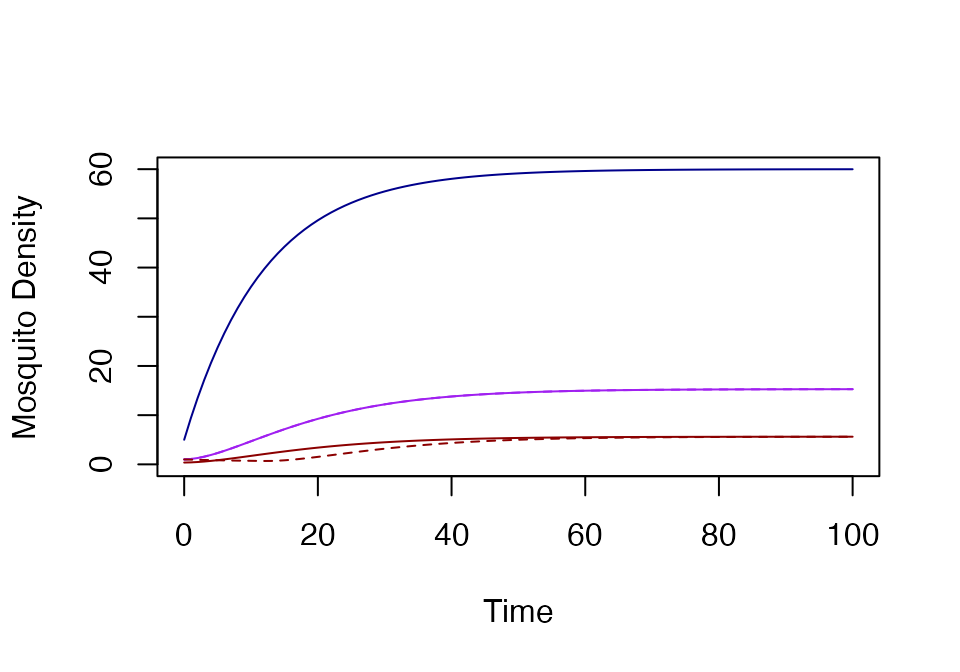
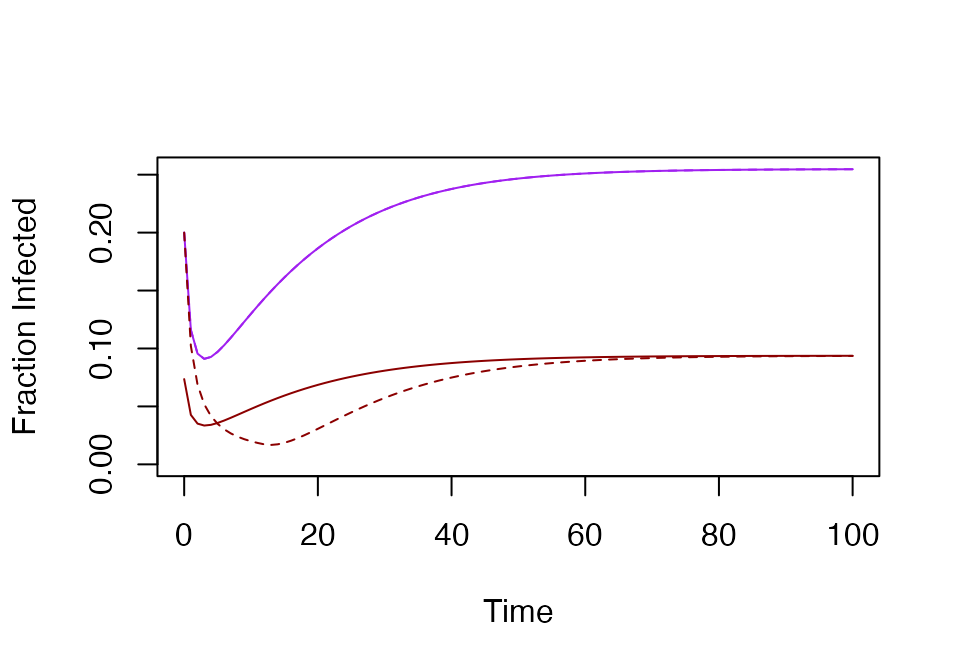
updated Adult Mosquitoes

diff --git a/docs/articles/AdultMosquitoes.html b/docs/articles/AdultMosquitoes.html
@@ -95,6 +95,9 @@
   </a>
   <ul class="dropdown-menu" role="menu">
 <li>
+      <a href="../articles/AdultMosquitoes.html">Adult Mosquitoes</a>
+    </li>
+    <li>
       <a href="../articles/adult_RM.html">Ross-Macdonald model</a>
     </li>
     <li>
@@ -289,9 +292,8 @@ The equation for <span class="math inline">\(M\)</span> and <span class="math in
 <code class="sourceCode R"><span><span class="va">si</span> <span class="op">=</span> <span class="fu"><a href="../reference/xds_setup.html">xds_setup</a></span><span class="op">(</span>MYZname <span class="op">=</span> <span class="st">"si"</span>, Xname <span class="op">=</span> <span class="st">"trivial"</span>, Xopts <span class="op">=</span> <span class="fu"><a href="https://rdrr.io/r/base/list.html" class="external-link">list</a></span><span class="op">(</span>kappa<span class="op">=</span><span class="fl">0.1</span><span class="op">)</span>, Lname <span class="op">=</span> <span class="st">"trivial"</span>, Lopts <span class="op">=</span> <span class="fu"><a href="https://rdrr.io/r/base/list.html" class="external-link">list</a></span><span class="op">(</span>Lambda<span class="op">=</span><span class="fl">5</span><span class="op">)</span>, HPop<span class="op">=</span><span class="fl">10</span><span class="op">)</span></span>
 <span><span class="va">si</span> <span class="op">=</span> <span class="fu"><a href="../reference/xde_solve.html">xde_solve</a></span><span class="op">(</span><span class="va">si</span>, Tmax<span class="op">=</span><span class="fl">100</span><span class="op">)</span></span></code></pre></div>
 <div class="sourceCode" id="cb5"><pre class="downlit sourceCode r">
-<code class="sourceCode R"><span><span class="fu"><a href="../reference/xds_plot_M.html">xds_plot_M</a></span><span class="op">(</span><span class="va">si</span><span class="op">)</span></span>
-<span><span class="fu"><a href="../reference/xds_plot_YZ.html">xds_plot_YZ</a></span><span class="op">(</span><span class="va">si</span>, add_axes<span class="op">=</span><span class="cn">FALSE</span><span class="op">)</span></span>
-<span><span class="fu"><a href="../reference/xds_plot_YZ.html">xds_plot_YZ</a></span><span class="op">(</span><span class="va">rm</span>, add_axes<span class="op">=</span><span class="cn">FALSE</span>, llty<span class="op">=</span><span class="fl">2</span><span class="op">)</span></span></code></pre></div>
+<code class="sourceCode R"><span><span class="fu"><a href="../reference/xds_plot_YZ_fracs.html">xds_plot_YZ_fracs</a></span><span class="op">(</span><span class="va">si</span><span class="op">)</span></span>
+<span><span class="fu"><a href="../reference/xds_plot_YZ_fracs.html">xds_plot_YZ_fracs</a></span><span class="op">(</span><span class="va">rm</span>, add_axes<span class="op">=</span><span class="cn">FALSE</span>, llty<span class="op">=</span><span class="fl">2</span><span class="op">)</span></span></code></pre></div>
 <p><img src="AdultMosquitoes_files/figure-html/unnamed-chunk-6-1.png" width="480"></p>
 </div>
 <div class="section level4">
@@ -299,18 +301,17 @@ The equation for <span class="math inline">\(M\)</span> and <span class="math in
 <code>sei</code><a class="anchor" aria-label="anchor" href="#sei"></a>
 </h4>
 <p>In the standard SEI compartmental model (or its equivalent under a
-change of variables):</p>
-<p><span class="math display">\[\frac{dY}{dt} = fq\kappa(M-Y) - g Y -
-\tau^{-1} Y\]</span></p>
-<p><span class="math display">\[\frac{dZ}{dt} =  \tau^{-1} Y - g
+change of variables), let <span class="math inline">\(\nu\)</span>:</p>
+<p><span class="math display">\[\frac{dY}{dt} = fq\kappa(M-Y) - g Y - Y/
+\tau\]</span></p>
+<p><span class="math display">\[\frac{dZ}{dt} =  Y / \tau - g
 Z\]</span></p>
 <div class="sourceCode" id="cb6"><pre class="downlit sourceCode r">
 <code class="sourceCode R"><span><span class="va">sei</span> <span class="op">=</span> <span class="fu"><a href="../reference/xds_setup.html">xds_setup</a></span><span class="op">(</span>MYZname <span class="op">=</span> <span class="st">"sei"</span>, Xname <span class="op">=</span> <span class="st">"trivial"</span>, Xopts <span class="op">=</span> <span class="fu"><a href="https://rdrr.io/r/base/list.html" class="external-link">list</a></span><span class="op">(</span>kappa<span class="op">=</span><span class="fl">0.1</span><span class="op">)</span>, Lname <span class="op">=</span> <span class="st">"trivial"</span>, Lopts <span class="op">=</span> <span class="fu"><a href="https://rdrr.io/r/base/list.html" class="external-link">list</a></span><span class="op">(</span>Lambda<span class="op">=</span><span class="fl">5</span><span class="op">)</span>, HPop<span class="op">=</span><span class="fl">10</span><span class="op">)</span></span>
 <span><span class="va">sei</span> <span class="op">=</span> <span class="fu"><a href="../reference/xde_solve.html">xde_solve</a></span><span class="op">(</span><span class="va">sei</span>, Tmax<span class="op">=</span><span class="fl">100</span><span class="op">)</span></span></code></pre></div>
 <div class="sourceCode" id="cb7"><pre class="downlit sourceCode r">
-<code class="sourceCode R"><span><span class="fu"><a href="../reference/xds_plot_M.html">xds_plot_M</a></span><span class="op">(</span><span class="va">sei</span><span class="op">)</span></span>
-<span><span class="fu"><a href="../reference/xds_plot_YZ.html">xds_plot_YZ</a></span><span class="op">(</span><span class="va">sei</span>, add_axes<span class="op">=</span><span class="cn">FALSE</span><span class="op">)</span></span>
-<span><span class="fu"><a href="../reference/xds_plot_YZ.html">xds_plot_YZ</a></span><span class="op">(</span><span class="va">rm</span>, add_axes<span class="op">=</span><span class="cn">FALSE</span>, llty<span class="op">=</span><span class="fl">2</span><span class="op">)</span></span></code></pre></div>
+<code class="sourceCode R"><span><span class="fu"><a href="../reference/xds_plot_YZ_fracs.html">xds_plot_YZ_fracs</a></span><span class="op">(</span><span class="va">rm</span>, llty<span class="op">=</span><span class="fl">2</span><span class="op">)</span></span>
+<span><span class="fu"><a href="../reference/xds_plot_YZ_fracs.html">xds_plot_YZ_fracs</a></span><span class="op">(</span><span class="va">sei</span>, add_axes<span class="op">=</span><span class="cn">FALSE</span><span class="op">)</span></span></code></pre></div>
 <p><img src="AdultMosquitoes_files/figure-html/unnamed-chunk-8-1.png" width="480"></p>
 </div>
 <div class="section level4">

diff --git a/docs/404.html b/docs/404.html
@@ -94,6 +94,9 @@
   </a>
   <ul class="dropdown-menu" role="menu">
 <li>
+      <a href="https://dd-harp.github.io/ramp.xds/articles/AdultMosquitoes.html">Adult Mosquitoes</a>
+    </li>
+    <li>
       <a href="https://dd-harp.github.io/ramp.xds/articles/adult_RM.html">Ross-Macdonald model</a>
     </li>
     <li>

diff --git a/docs/articles/index.html b/docs/articles/index.html
@@ -75,6 +75,9 @@
     <span class="caret"></span>
   </a>
   <ul class="dropdown-menu" role="menu"><li>
+      <a href="../articles/AdultMosquitoes.html">Adult Mosquitoes</a>
+    </li>
+    <li>
       <a href="../articles/adult_RM.html">Ross-Macdonald model</a>
     </li>
     <li>

diff --git a/docs/LICENSE-text.html b/docs/LICENSE-text.html
@@ -75,6 +75,9 @@
     <span class="caret"></span>
   </a>
   <ul class="dropdown-menu" role="menu"><li>
+      <a href="articles/AdultMosquitoes.html">Adult Mosquitoes</a>
+    </li>
+    <li>
       <a href="articles/adult_RM.html">Ross-Macdonald model</a>
     </li>
     <li>

diff --git a/docs/LICENSE.html b/docs/LICENSE.html
@@ -75,6 +75,9 @@
     <span class="caret"></span>
   </a>
   <ul class="dropdown-menu" role="menu"><li>
+      <a href="articles/AdultMosquitoes.html">Adult Mosquitoes</a>
+    </li>
+    <li>
       <a href="articles/adult_RM.html">Ross-Macdonald model</a>
     </li>
     <li>

diff --git a/docs/authors.html b/docs/authors.html
@@ -75,6 +75,9 @@
     <span class="caret"></span>
   </a>
   <ul class="dropdown-menu" role="menu"><li>
+      <a href="articles/AdultMosquitoes.html">Adult Mosquitoes</a>
+    </li>
+    <li>
       <a href="articles/adult_RM.html">Ross-Macdonald model</a>
     </li>
     <li>

diff --git a/docs/index.html b/docs/index.html
@@ -95,6 +95,9 @@
   </a>
   <ul class="dropdown-menu" role="menu">
 <li>
+      <a href="articles/AdultMosquitoes.html">Adult Mosquitoes</a>
+    </li>
+    <li>
       <a href="articles/adult_RM.html">Ross-Macdonald model</a>
     </li>
     <li>
